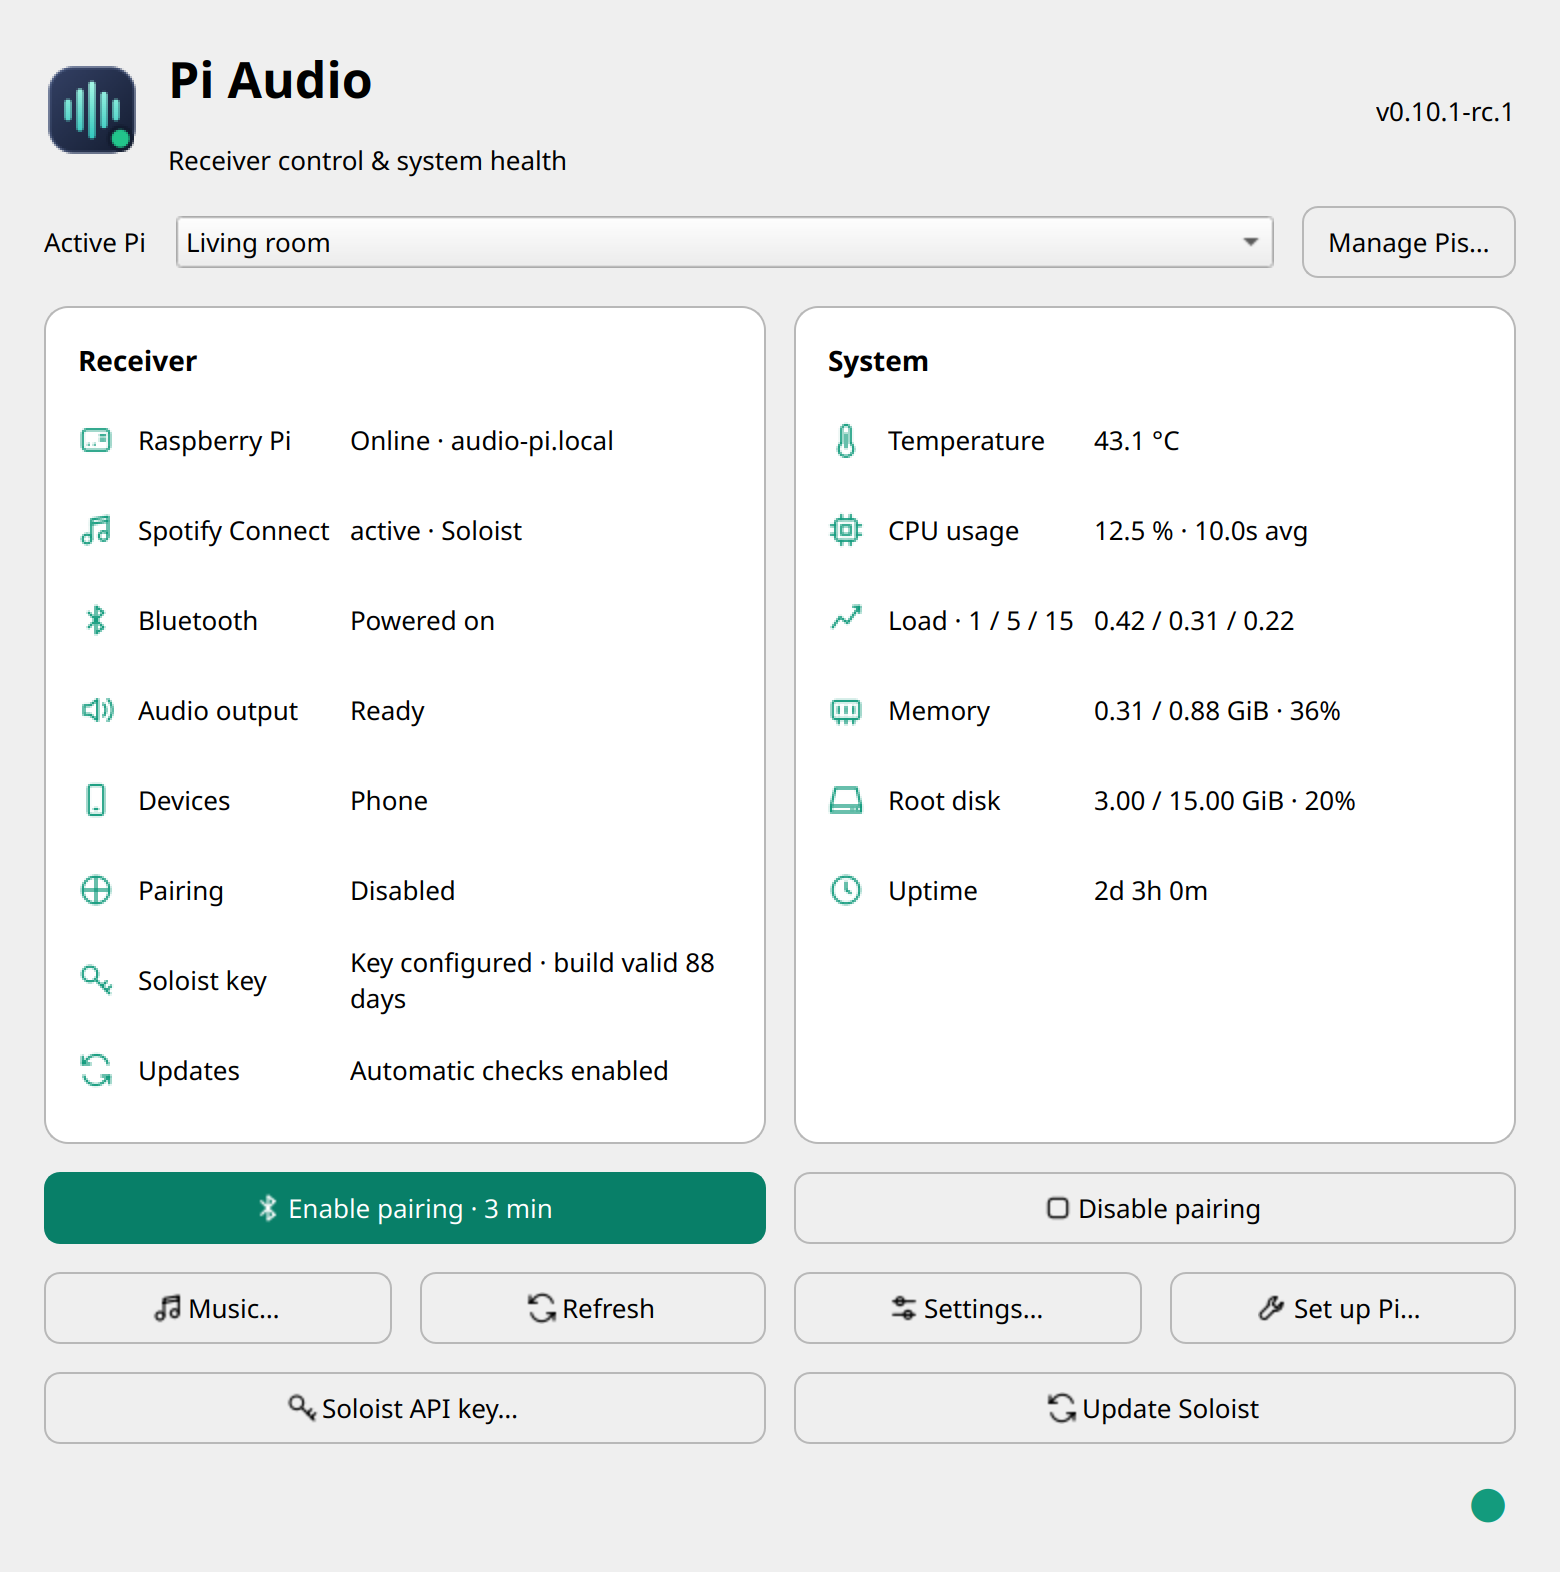
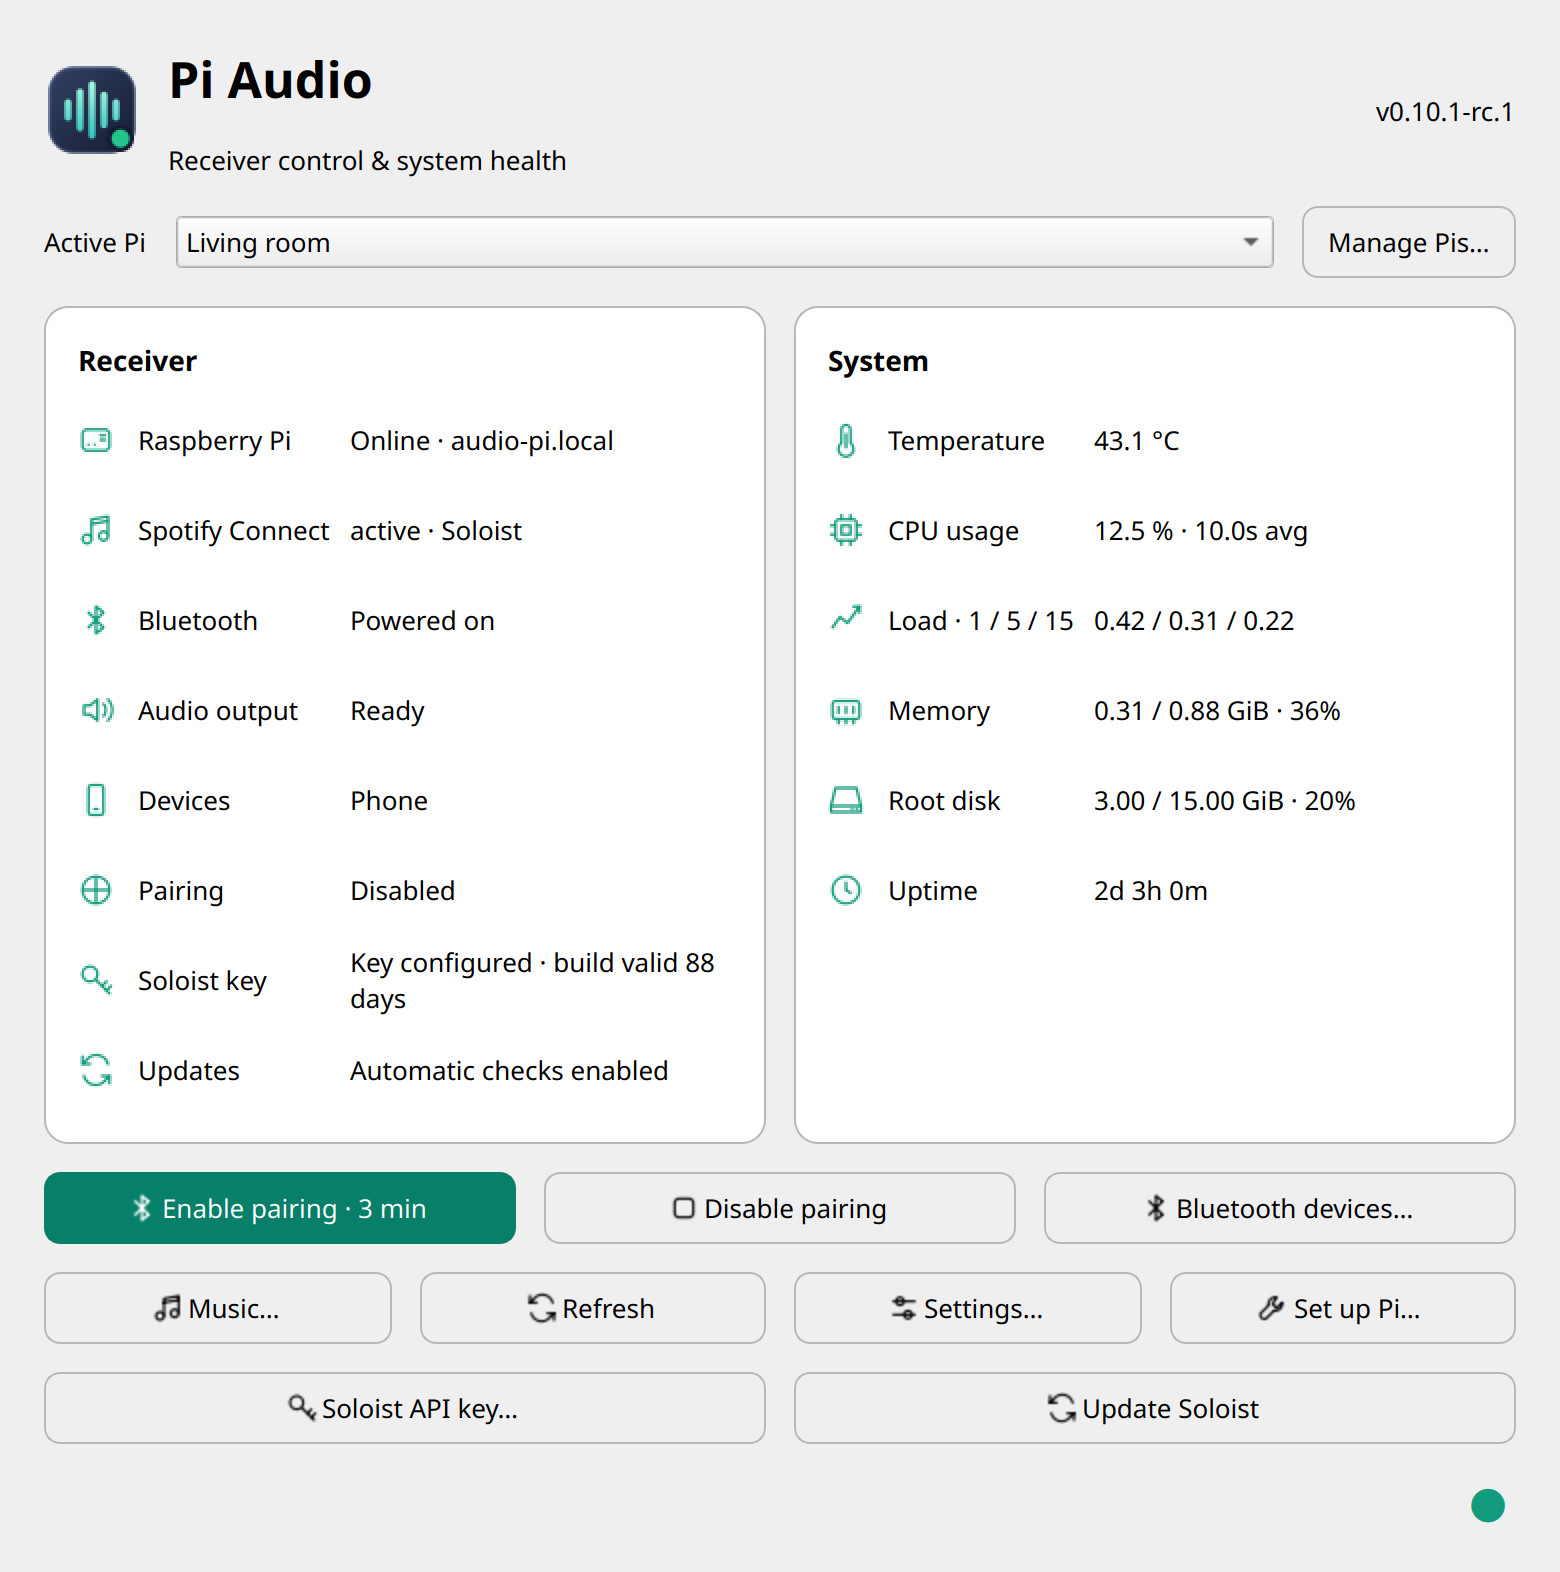
Expose Bluetooth management in the status window

Changed region(s): [[0.0923, 0.7481, 0.5846, 0.8104], [0.6462, 0.7481, 0.8923, 0.7793]]

diff --git a/app.py b/app.py
@@ -287,6 +287,10 @@ class TrayApp(QWidget):
         self.off_button.clicked.connect(self.stop_pairing)
         controls.addWidget(self.pair_button)
         controls.addWidget(self.off_button)
+        self.bluetooth_button = QPushButton(tr('Bluetooth devices…'))
+        self.bluetooth_button.setIcon(symbol('bluetooth'))
+        self.bluetooth_button.clicked.connect(lambda: self.receiver_dialog('bluetooth'))
+        controls.addWidget(self.bluetooth_button)
         layout.addLayout(controls)
         extras = QHBoxLayout()
         for label, glyph, callback in [(tr('Music…'), 'music', self.open_music),

diff --git a/docs/BLUETOOTH.md b/docs/BLUETOOTH.md
@@ -1,6 +1,7 @@
 # Bluetooth sources and outputs
 
-Open **Bluetooth → Bluetooth devices…** for the selected Pi. This is an
+Open **Bluetooth → Bluetooth devices…** in the tray menu, or use the
+**Bluetooth devices…** button in the status window, for the selected Pi. This is an
 unreleased development feature, separate from the 0.10.1 stable candidate.
 The first implementation manages the first BlueZ adapter (ordered by object
 path); it is not a multi-adapter router. The selected adapter address is checked
@@ -59,8 +60,8 @@ address. The tray profile stores no Bluetooth keys; pairing keys stay in BlueZ.
   preference itself is retained.
 
 Before the first explicit preference/connect/disconnect operation, existing
-paired devices retain their BlueZ Trusted/Blocked behavior. Other Bluetooth
-managers can change global BlueZ properties; for managed devices this service
+paired devices retain their BlueZ Trusted/Blocked behavior. Blocked is device-wide and also affects non-audio profiles of that device.
+Other Bluetooth managers can change global BlueZ properties; for managed devices this service
 reapplies its saved policy. An enforcement failure is shown as degraded rather
 than claiming the preference is guaranteed. Do not run competing policy managers
 for the same adapter. The manager must run for enforcement; disabling its service
